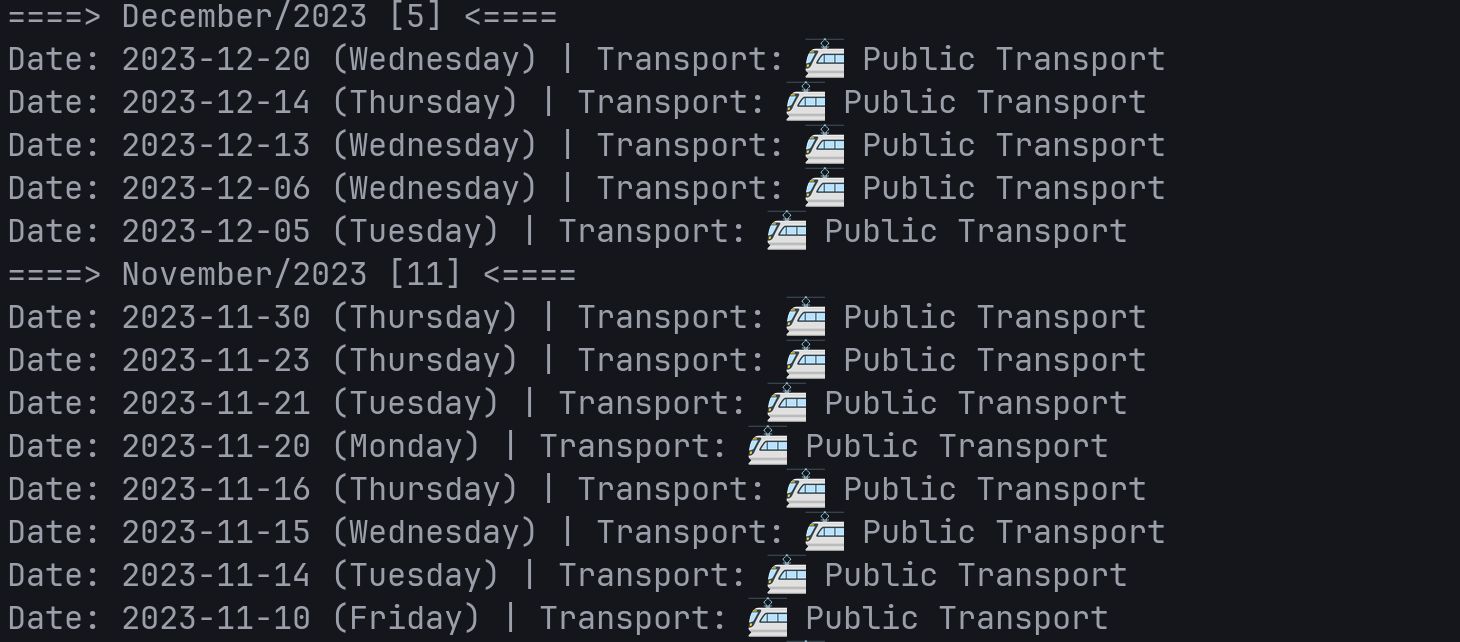
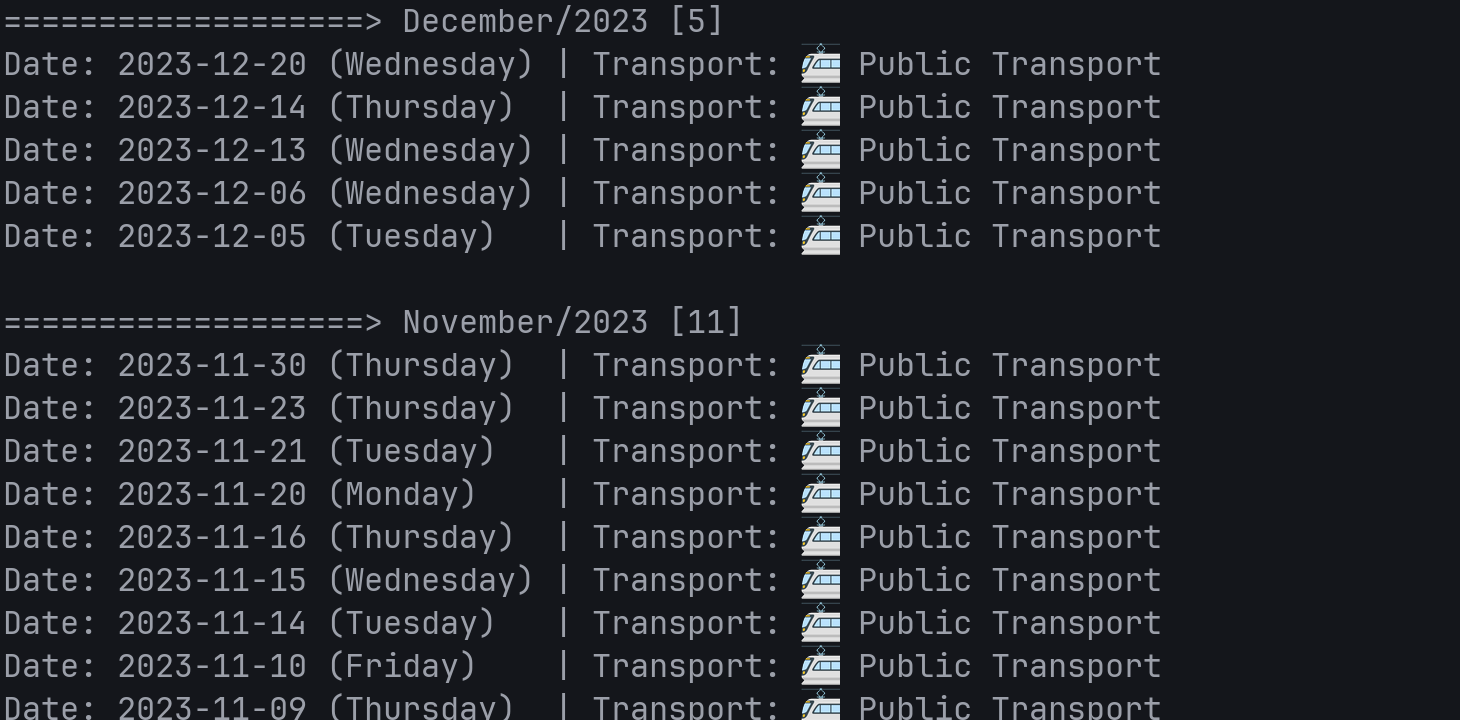
fix: pad string with empty spaces for better alignment

Changed region(s): [[0.0, 0.0, 0.8014, 1.0]]

diff --git a/tools/stringformatter.go b/tools/stringformatter.go
@@ -24,9 +24,19 @@ func GetDefaultCommuteDisplay(commute c.Commute) string {
 		fmt.Println("Dates are not formatted propertly in the file:", err)
 		return ""
 	}
-	return fmt.Sprintf("Date: %s (%s) | Transport: %s %s",
+
+	// Pad empty spaces to align the text better in the terminal
+	maxLenght := 10
+	offset := maxLenght - len(date.Weekday().String())
+	offsetString := ""
+	for i := 0; i < offset; i++ {
+		offsetString += " "
+	}
+
+	return fmt.Sprintf("Date: %s (%s)%s| Transport: %s %s",
 		commute.Date,
 		date.Weekday(),
+		offsetString,
 		GetTransportEmoji(commute.Transport),
 		commute.Transport,
 	)

diff --git a/internal/option/display.go b/internal/option/display.go
@@ -41,7 +41,7 @@ func DisplayCommutes() {
 				break
 			}
 
-			fmt.Printf("====> %s/%s [%d] <====\n",
+			fmt.Printf("\n===================> %s/%s [%d]\n",
 				commute.GetMonth(),
 				commute.GetYear(),
 				periodCount[periodKey],
